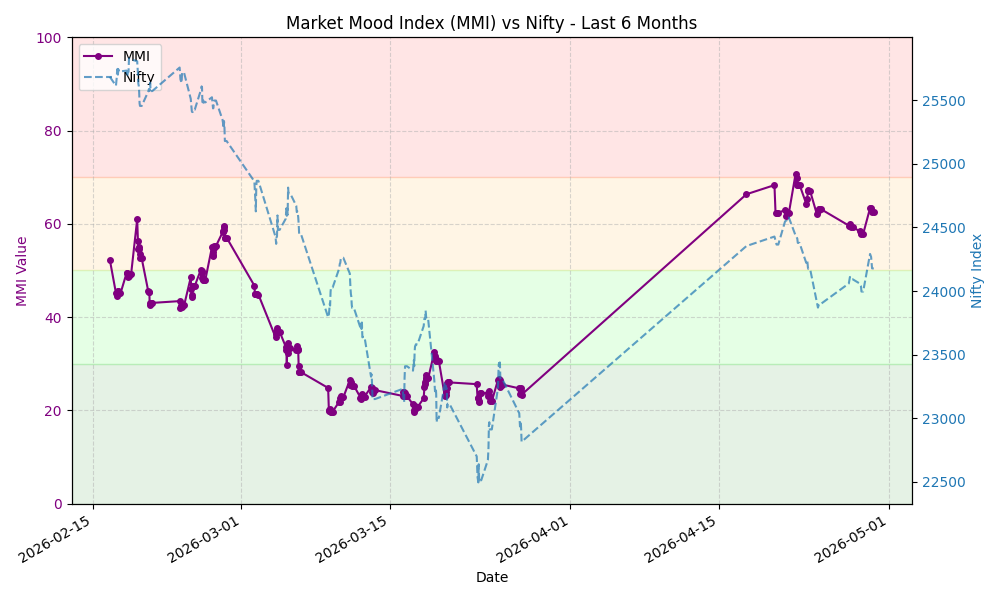
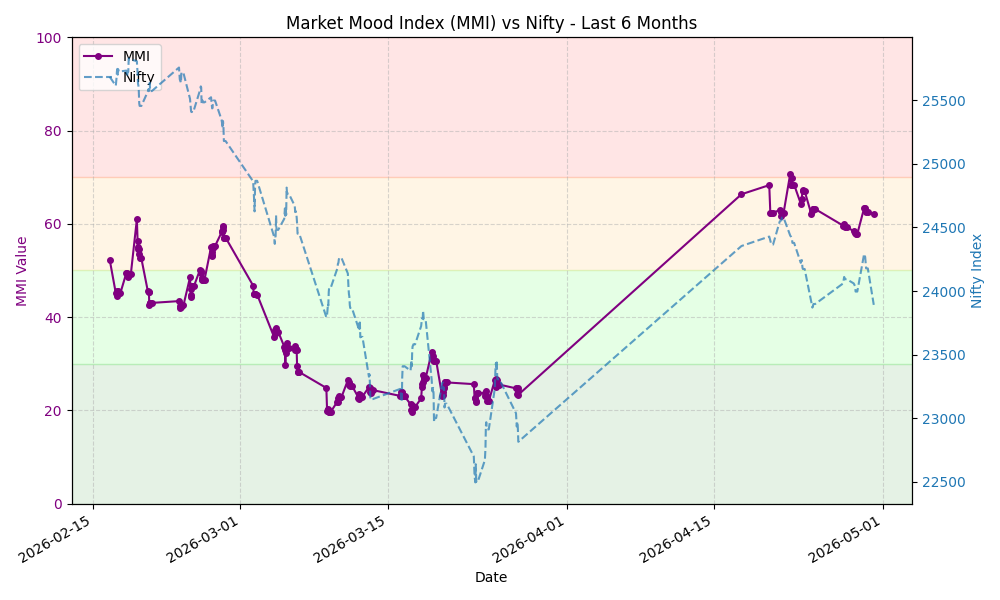
Update MMI data and chart

diff --git a/README.md b/README.md
@@ -7,8 +7,8 @@ This repository automatically fetches the MMI value, stores the history, and gen
 
 ## Latest MMI Value
 
-**62.59** - **Greed**
-<small>Last Updated: 2026-04-29 14:20 UTC</small>
+**62.19** - **Greed**
+<small>Last Updated: 2026-04-30 03:54 UTC</small>
 
 ## MMI Trend (Last 30 Days)
 